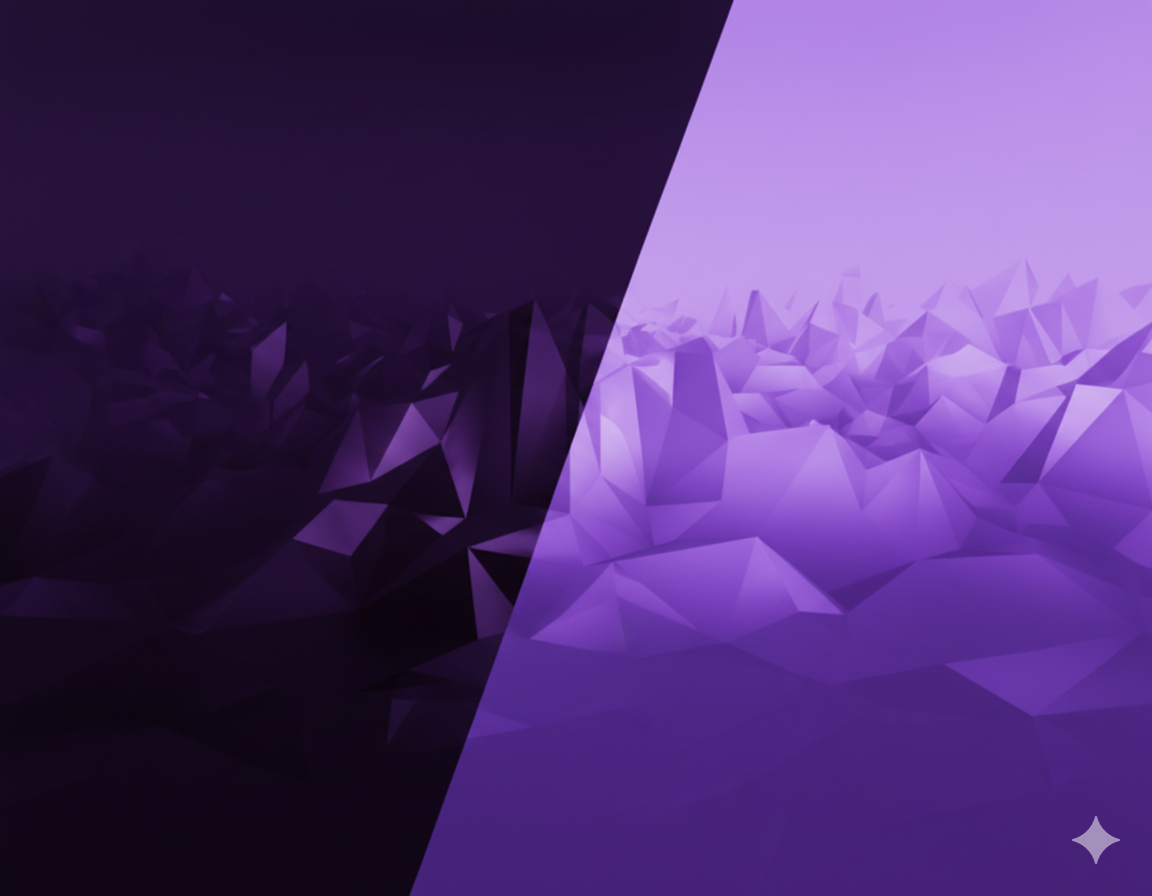
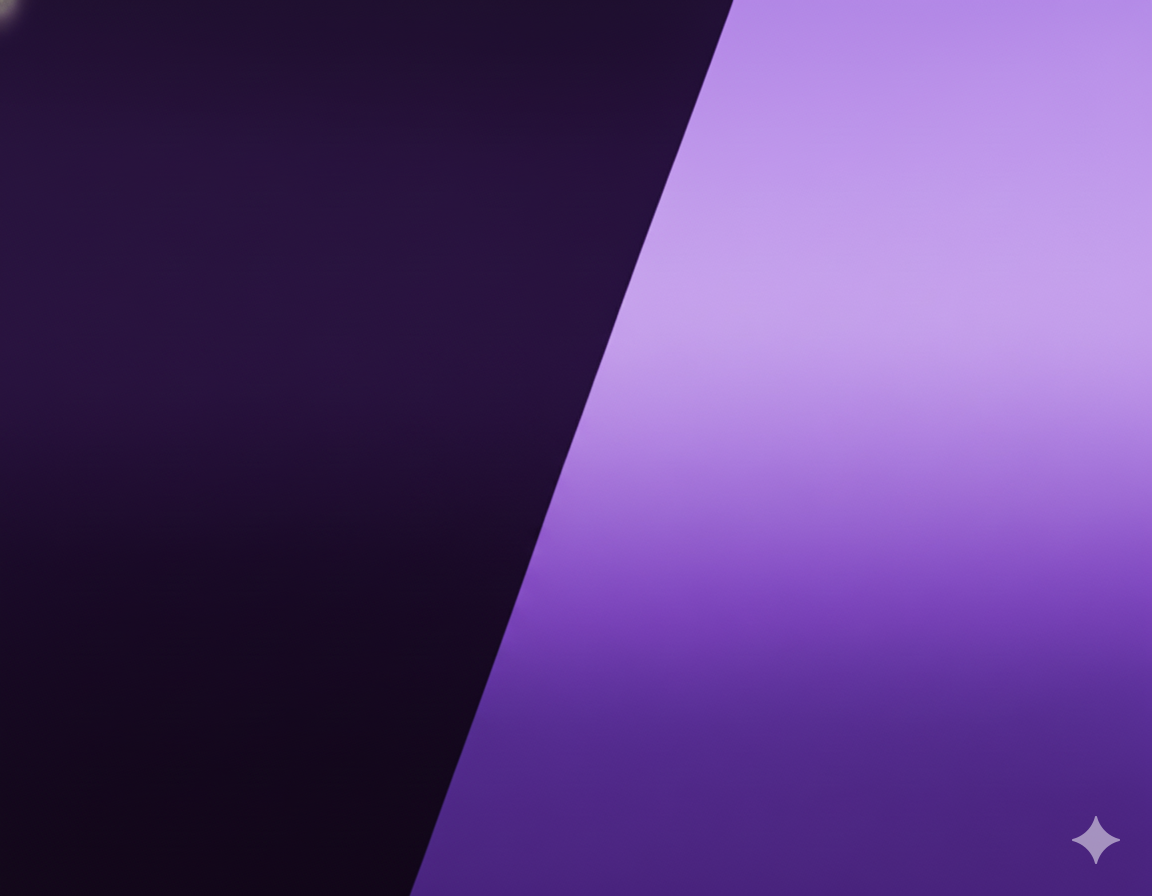
Improve header spacing with divider and better gaps
- Add subtle vertical divider between Back button and page title
- Increase spacing between header elements for better visual hierarchy
- Apply improvements to both Gifticon and Network pages

diff --git a/src/pages/Gifticon.jsx b/src/pages/Gifticon.jsx
@@ -133,7 +133,7 @@ const Gifticon = () => {
       <div className="relative bg-brand-background/80 backdrop-blur-sm shadow-md sticky top-0 z-40 border-b border-white/10">
         <div className="max-w-7xl mx-auto px-2 xs:px-3 sm:px-4 tablet:px-6 laptop:px-8 desktop:px-12 py-2 xs:py-3 sm:py-4">
           <div className="flex items-center justify-between gap-2 xs:gap-3 sm:gap-4">
-            <div className="flex items-center gap-1 xs:gap-2 sm:gap-3 min-w-0 flex-1">
+            <div className="flex items-center gap-2 xs:gap-3 sm:gap-4 min-w-0 flex-1">
               <button
                 onClick={() => navigate('/')}
                 className="flex items-center gap-1 text-brand-textSecondary hover:text-white transition-colors font-medium flex-shrink-0"
@@ -141,6 +141,7 @@ const Gifticon = () => {
                 <ArrowLeft className="w-4 h-4 xs:w-5 xs:h-5" />
                 <span className="hidden sm:inline text-xs xs:text-sm">Back</span>
               </button>
+              <div className="h-6 w-px bg-white/20 hidden xs:block"></div>
               <h1 className="text-sm xs:text-base sm:text-lg md:text-xl tablet:text-2xl laptop:text-3xl font-bold text-white truncate min-w-0">
                 Show you <span className="text-yellow-400">care</span> <span className="text-brand-purplePrimary">Gifticon</span>
               </h1>

diff --git a/src/pages/Network.jsx b/src/pages/Network.jsx
@@ -216,7 +216,7 @@ const Network = () => {
       <div className="relative bg-brand-background/80 backdrop-blur-sm shadow-md sticky top-0 z-40 border-b border-white/10">
         <div className="max-w-7xl mx-auto px-2 xs:px-3 sm:px-4 tablet:px-6 laptop:px-8 desktop:px-12 py-2 xs:py-3 sm:py-4">
           <div className="flex items-center justify-between gap-2 xs:gap-3 sm:gap-4">
-            <div className="flex items-center gap-1 xs:gap-2 sm:gap-3 min-w-0 flex-1">
+            <div className="flex items-center gap-2 xs:gap-3 sm:gap-4 min-w-0 flex-1">
               <button
                 onClick={() => navigate('/')}
                 className="flex items-center gap-1 text-brand-textSecondary hover:text-white transition-colors font-medium flex-shrink-0"
@@ -224,6 +224,7 @@ const Network = () => {
                 <ArrowLeft className="w-4 h-4 xs:w-5 xs:h-5" />
                 <span className="hidden sm:inline text-xs xs:text-sm">Back</span>
               </button>
+              <div className="h-6 w-px bg-white/20 hidden xs:block"></div>
               <h1 className="text-sm xs:text-base sm:text-lg md:text-xl tablet:text-2xl laptop:text-3xl font-bold text-white truncate min-w-0">
                 Show you <span className="text-yellow-400">care</span> <span className="text-brand-purplePrimary">Network</span>
               </h1>
